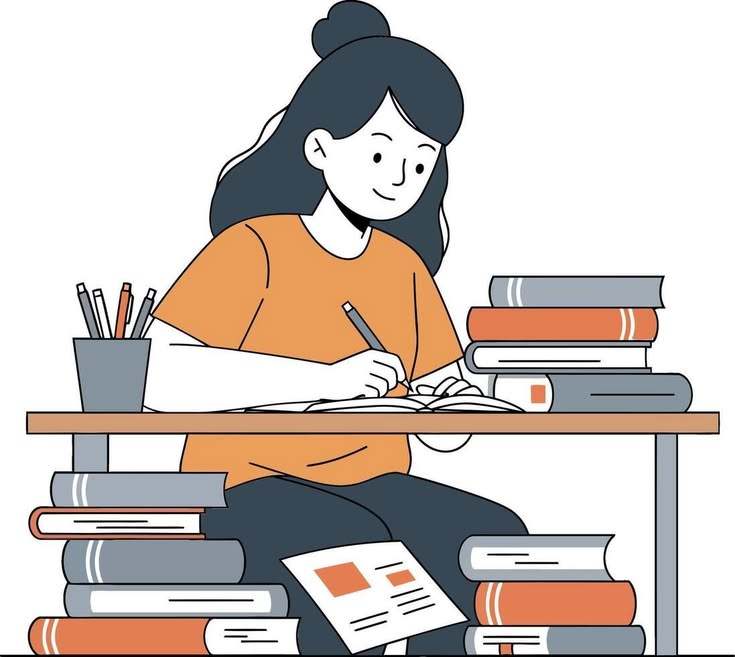
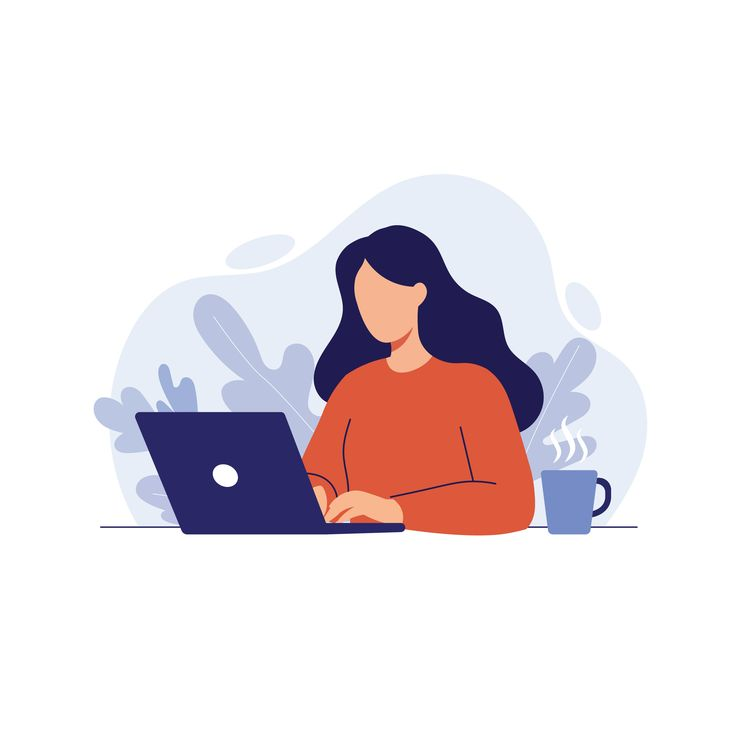
Fix hero background image cropping with contain sizing and update tagline font to Inter/Poppins

diff --git a/public/css/style.css b/public/css/style.css
@@ -830,10 +830,10 @@ kbd { background-color: rgba(169, 214, 229, .4); color: var(--deep-navy); }
    ========================================================================== */
 .hero-clean-section {
   position: relative;
-  min-height: 72vh;
-  min-height: max(520px, 70vh);
+  min-height: clamp(480px, 65vh, 620px);
+  background-color: #FFFFFF;
   background-image: url('/img/hero-img-hp.jpeg');
-  background-size: cover;
+  background-size: contain;
   background-position: center center;
   background-repeat: no-repeat;
   display: flex;
@@ -847,9 +847,9 @@ kbd { background-color: rgba(169, 214, 229, .4); color: var(--deep-navy); }
   inset: 0;
   background: linear-gradient(
     180deg,
-    rgba(15, 23, 42, 0.40) 0%,
-    rgba(15, 23, 42, 0.50) 50%,
-    rgba(15, 23, 42, 0.60) 100%
+    rgba(15, 23, 42, 0.38) 0%,
+    rgba(15, 23, 42, 0.48) 50%,
+    rgba(15, 23, 42, 0.58) 100%
   );
   pointer-events: none;
 }
@@ -861,31 +861,31 @@ kbd { background-color: rgba(169, 214, 229, .4); color: var(--deep-navy); }
   line-height: 1.08;
   letter-spacing: -0.035em;
   color: #FFFFFF !important;
-  margin-bottom: 0.85rem;
+  margin-bottom: 0.75rem;
   text-shadow: 0 4px 24px rgba(0, 0, 0, 0.5);
 }
 
 .hero-clean-tagline {
-  font-family: 'Dancing Script', cursive;
-  font-weight: 600;
-  font-size: clamp(1.45rem, 3.2vw, 2.15rem);
-  line-height: 1.35;
+  font-family: 'Inter', 'Poppins', -apple-system, BlinkMacSystemFont, 'Segoe UI', Roboto, sans-serif;
+  font-weight: 500;
+  font-size: clamp(1.15rem, 2.5vw, 1.75rem);
+  line-height: 1.4;
   color: #EDE9FE !important;
-  letter-spacing: 0.01em;
-  text-shadow: 0 2px 14px rgba(0, 0, 0, 0.5);
+  letter-spacing: -0.01em;
+  text-shadow: 0 2px 14px rgba(0, 0, 0, 0.45);
 }
 
 @media (max-width: 767.98px) {
   .hero-clean-section {
-    min-height: 440px;
+    min-height: 420px;
     padding: 3.5rem 1rem;
   }
   .hero-clean-title {
-    font-size: clamp(2.75rem, 11vw, 3.65rem);
-    margin-bottom: 0.65rem;
+    font-size: clamp(2.6rem, 11vw, 3.65rem);
+    margin-bottom: 0.6rem;
   }
   .hero-clean-tagline {
-    font-size: clamp(1.35rem, 5vw, 1.65rem);
+    font-size: clamp(1.05rem, 4.5vw, 1.35rem);
   }
 }
 
